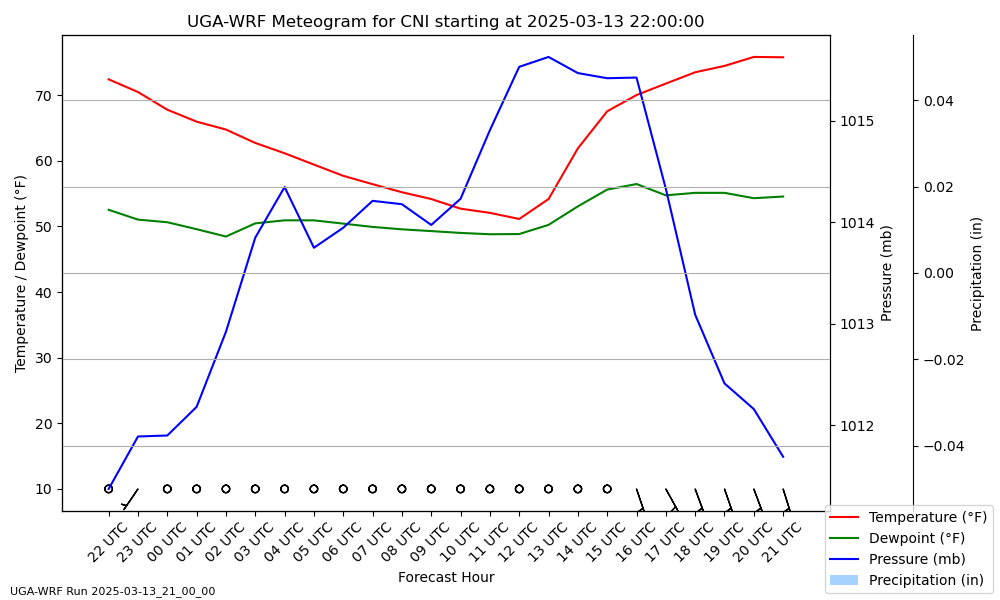
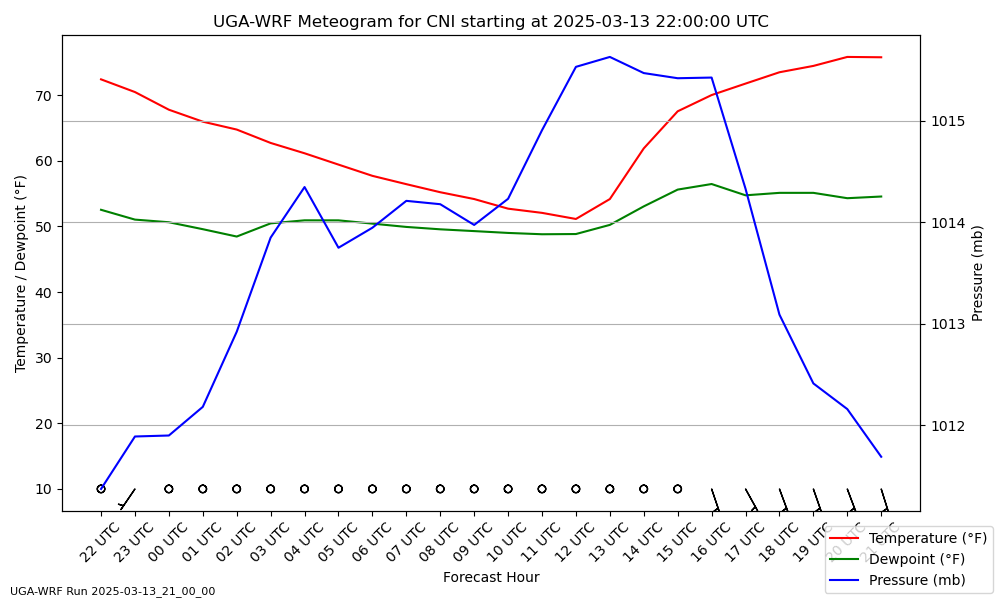
add nearby NWS sites and remove CAPE vars
we can compare soundings and forecasts

also AFWA cape variables just don't work, so they outta here

diff --git a/site/script.js b/site/script.js
@@ -1,4 +1,4 @@
-const products = {"temperature": "2m Temperature", "dewp": "2m Dewpoint", "comp_reflectivity": "Composite Reflectivity", "wind": "10m Wind", "pressure": "MSLP", "cape": "CAPE", "cape_mu": "CAPE (Most Unstable)", "cin": "CIN", "cin_mu": "CIN (Most Unstable)", "helicity": "Helicity", "total_precip": "Total Precipitation", "snowfall": "Snowfall", "echo_tops": "Echo Tops"};
+const products = {"temperature": "2m Temperature", "dewp": "2m Dewpoint", "comp_reflectivity": "Composite Reflectivity", "wind": "10m Wind", "pressure": "MSLP", "helicity": "Helicity", "total_precip": "Total Precipitation", "snowfall": "Snowfall", "echo_tops": "Echo Tops"};
 const productSelector = document.getElementById('productSelector');
 for (key in products) {
     const option = document.createElement('option');
@@ -16,11 +16,14 @@ const meteogram = document.getElementById('meteogram')
 const textForecast = document.getElementById('textForecast');
 const sahn = document.getElementById('sahn');
 const scni = document.getElementById('scni');
-const satl = document.getElementById('satl');
-const sffc = document.getElementById('sffc');
+const satl = document.getElementById('satl')
 const smcn = document.getElementById('smcn');
 const srmg = document.getElementById('srmg');
 const scsg = document.getElementById('scsg');
+const sffc = document.getElementById('sffc');
+const seet = document.getElementById('seet');
+const sohx = document.getElementById('sohx');
+const sgsp = document.getElementById('sgsp');
 function updateImage() {
     const run = document.getElementById('runSelector').value;
     const product = productSelector.value;
@@ -30,10 +33,13 @@ function updateImage() {
     sahn.src = `runs/${run}/skewt/ahn/hour_${timestep}.png`;
     scni.src = `runs/${run}/skewt/cni/hour_${timestep}.png`;
     satl.src = `runs/${run}/skewt/atl/hour_${timestep}.png`;
-    sffc.src = `runs/${run}/skewt/ffc/hour_${timestep}.png`;
     smcn.src = `runs/${run}/skewt/mcn/hour_${timestep}.png`;
     srmg.src = `runs/${run}/skewt/rmg/hour_${timestep}.png`;
     scsg.src = `runs/${run}/skewt/csg/hour_${timestep}.png`;
+    sffc.src = `runs/${run}/skewt/ffc/hour_${timestep}.png`;
+    seet.src = `runs/${run}/skewt/bmx/hour_${timestep}.png`;
+    sohx.src = `runs/${run}/skewt/ohx/hour_${timestep}.png`;
+    sgsp.src = `runs/${run}/skewt/gsp/hour_${timestep}.png`;
 }
 function updateTextForecast() {
     const textSelector = document.getElementById('textSelector').value;

diff --git a/site/index.html b/site/index.html
@@ -54,10 +54,13 @@
     <img class="skewtimg" id="sahn" src="" alt="Upper Air Plot for AHN" width="300"/>
     <img class="skewtimg" id="scni" src="" alt="Upper Air Plot for CNI" width="300"/>
     <img class="skewtimg" id="satl" src="" alt="Upper Air Plot for ATL" width="300"/>
-    <img class="skewtimg" id="sffc" src="" alt="Upper Air Plot for FFC" width="300"/>
     <img class="skewtimg" id="smcn" src="" alt="Upper Air Plot for MCN" width="300"/>
     <img class="skewtimg" id="srmg" src="" alt="Upper Air Plot for RMG" width="300"/>
     <img class="skewtimg" id="scsg" src="" alt="Upper Air Plot for CSG" width="300"/>
+    <img class="skewtimg" id="sffc" src="" alt="Upper Air Plot for FFC" width="300"/>
+    <img class="skewtimg" id="seet" src="" alt="Upper Air Plot for EET" width="300"/>
+    <img class="skewtimg" id="sohx" src="" alt="Upper Air Plot for OHX" width="300"/>
+    <img class="skewtimg" id="sgsp" src="" alt="Upper Air Plot for GSP" width="300"/>
     </div>
     <h2>Point Data</h2>
     <label for="textSelector">Select Airport</label>
@@ -65,10 +68,13 @@
         <option value="ahn">AHN</option>
         <option value="cni">CNI</option>
         <option value="atl">ATL</option>
-        <option value="ffc">FFC</option>
         <option value="mcn">MCN</option>
         <option value="rmg">RMG</option>
         <option value="csg">CSG</option>
+        <option value="ffc">(NWS) FFC</option>
+        <option value="bmx">(NWS) BMX</option>
+        <option value="ohx">(NWS) OHX</option>
+        <option value="gsp">(NWS) GSP</option>
     </select>
     <h3>Meteogram</h3>
     <img class="meteogramimg" id="meteogram" src="" alt="Meteogram" width="600">

diff --git a/script/meteogram.py b/script/meteogram.py
@@ -15,24 +15,20 @@ def plot_meteogram(wrf_file, airport, coords, output_path, forecast_times, wrfho
     dewpoints = []
     wind_speeds = []
     pressures = []
-    precipitations = []
     for t in hours:
         t_data = getvar(wrf_file, "T2", timeidx=t)[y, x].values
         q_data = getvar(wrf_file, "Q2", timeidx=t)[y, x].values
         wspd_data = getvar(wrf_file, "WSPD10MAX", timeidx=t)[y, x].values
         pressure_data = getvar(wrf_file, "AFWA_MSLP", timeidx=t)[y, x].values
-        precip_data = getvar(wrf_file, "RAINC", timeidx=t)[y, x].values
         t_f = (t_data - 273.15) * 9/5 + 32
         td = mpcalc.dewpoint(mpcalc.vapor_pressure(getvar(wrf_file, 'PSFC', timeidx=t) / 100 * units.mbar, q_data))
         td_f = to_np(td)[y, x].magnitude * 9/5 + 32
         wspd = to_np(wspd_data) * 2.23694
         pressure_mb = to_np(pressure_data) / 100
-        precip = to_np(precip_data) * 0.0393701 
         temperatures.append(t_f)
         dewpoints.append(td_f)
         wind_speeds.append(wspd)
         pressures.append(pressure_mb)
-        precipitations.append(precip)
     fig, ax1 = plt.subplots(figsize=(10, 6))
     ax1.plot(hours, temperatures, color='red', label='Temperature (°F)')
     ax1.plot(hours, dewpoints, color='green', label='Dewpoint (°F)')
@@ -44,10 +40,6 @@ def plot_meteogram(wrf_file, airport, coords, output_path, forecast_times, wrfho
     ax2 = ax1.twinx()
     ax2.plot(hours, pressures, color='blue', label='Pressure (mb)')
     ax2.set_ylabel('Pressure (mb)')
-    ax3 = ax1.twinx()
-    ax3.bar(hours, precipitations, color='dodgerblue', alpha=0.4, label='Precipitation (in)')
-    ax3.set_ylabel('Precipitation (in)')
-    ax3.spines['right'].set_position(('outward', 60))
     fig.legend(loc="lower right")
     plt.title(f"UGA-WRF Meteogram for {airport.upper()} starting at {forecast_times[1]} UTC")
     plt.grid(True)

diff --git a/script/ugawrf.py b/script/ugawrf.py
@@ -7,10 +7,10 @@ import numpy as np
 import datetime as dt
 
 # processing modules - located in the same folder as (module).py
-#import textgen
+import textgen
 import weathermaps
 import meteogram
-#import skewt
+import skewt
 
 print("UGA-WRF Data Processing Program")
 start_time = dt.datetime.now()
@@ -28,9 +28,14 @@ airports = {
     "ffc": (33.358755552804176, -84.5711101702346),
     "mcn": (32.70076950826015, -83.64790511895201),
     "rmg": (34.35267229676656, -85.16328449820841),
-    "csg": (32.51571975545047, -84.9392150850212)
+    "csg": (32.51571975545047, -84.9392150850212),
+    "bmx": (33.17895986702925, -86.7823825539515),
+    "ohx": (36.24707362357824, -86.56312930475052),
+    "gsp": (34.883261598428625, -82.22035185765819)
 } # locations to plot skewts, text products, meteograms. meant for airports, you could put any location in domain here
 # format is "folder_name": (lat, lon)
+# !!! IMPORTANT !!! our current skewt plot function is considerably intensive, taking about ~50 seconds per airport to finish (on my hardware).
+# this will scale up quick, so try not to add too many airports right now
 
 PRODUCTS = {
     "temperature": "T2",
@@ -38,10 +43,6 @@ PRODUCTS = {
     "wind": "WSPD10MAX",
     "comp_reflectivity": "REFD_COM",
     "pressure": "AFWA_MSLP",
-    "cape": "AFWA_CAPE",
-    "cape_mu": "AFWA_CAPE_MU",
-    "cin": "AFWA_CIN",
-    "cin_mu": "AFWA_CIN_MU",
     "helicity": "UP_HELI_MAX",
     "total_precip": "AFWA_TOTPRECIP",
     "snowfall": "SNOWNC",
